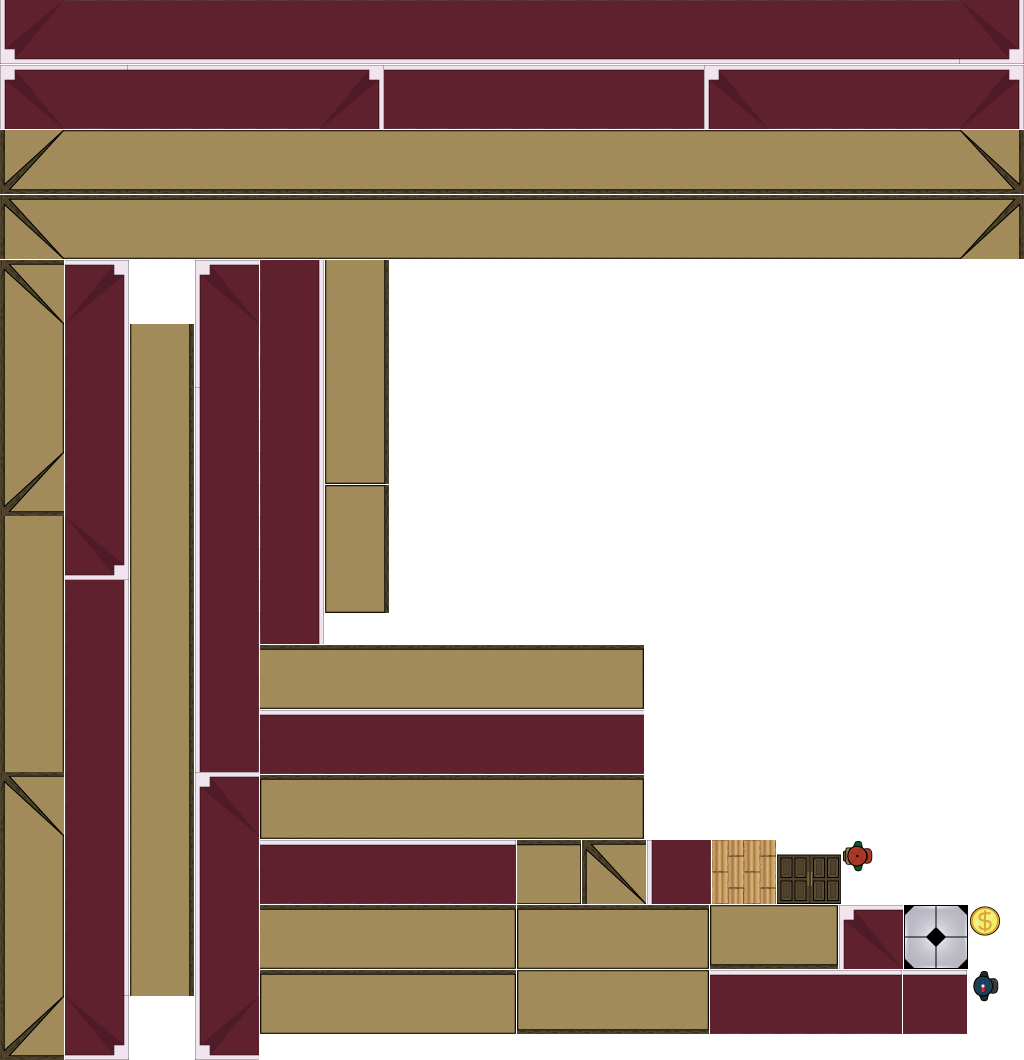
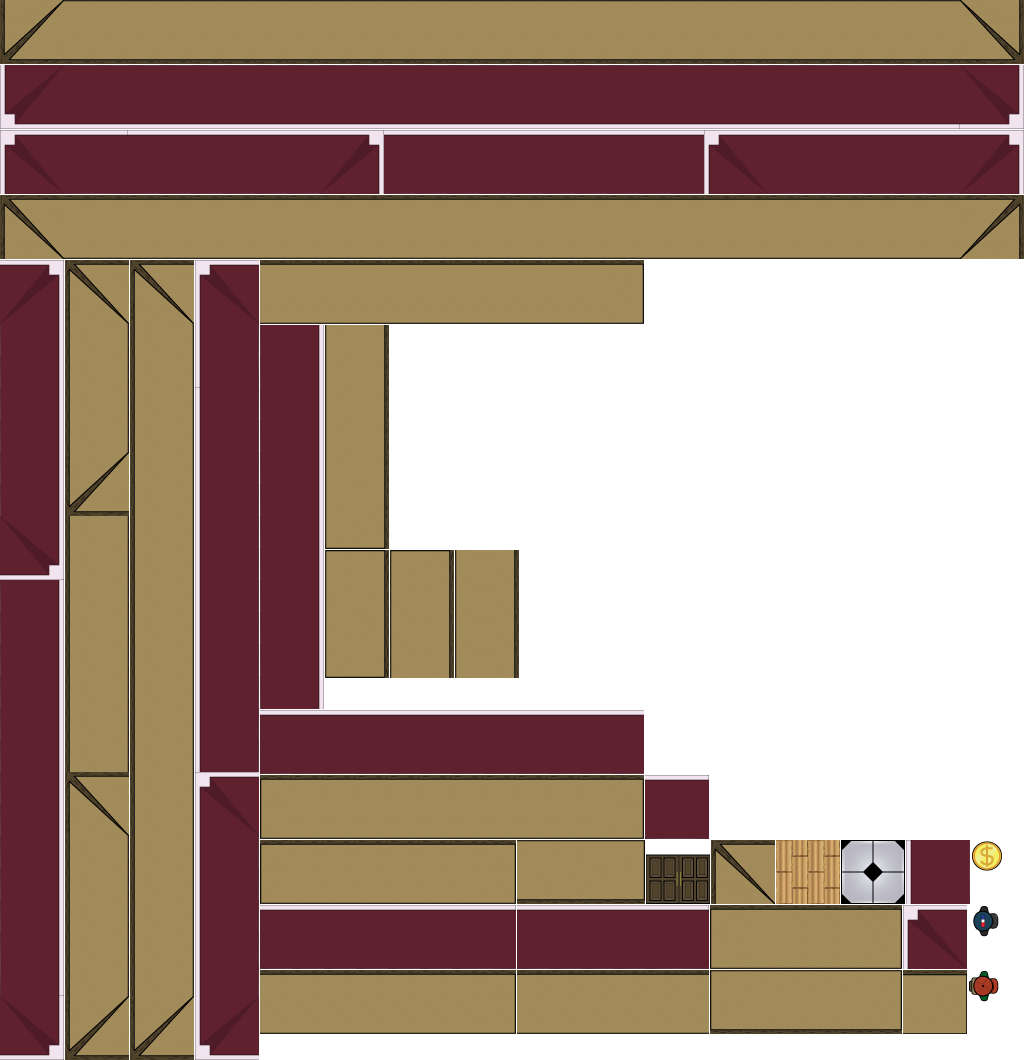
last level arranged

diff --git a/js/Bank.js b/js/Bank.js
@@ -14,7 +14,7 @@ Bank.prototype={
         game.load.image('coin', 'assets/img/pngformat/coin.png');
         game.load.atlas('wallAtlas', 'assets/img/wallatlas.png', 'assets/img/wallatlas.json');
         game.load.atlas('atlas', 'assets/img/atlas.png', 'assets/img/atlas.json');
-
+        game.load.atlas('masterAtlas', 'assets/img/MasterAtlas.png', 'assets/img/MasterAtlas.json');
         game.load.image('floor', 'assets/img/pngformat/floor.png');
 
     },
@@ -41,49 +41,79 @@ Bank.prototype={
         Swalls.enableBody = true;
 
         //*Evs Crap
-        // top left area
-        var leftMidWallPiece = Swalls.create(0, 400, 'wallAtlas','shortwall');   // left middle wall
-        leftMidWallPiece.body.immovable = true;
-        leftMidWallPiece.scale.setTo(.6,1);
-        var rightMidWallPiece = Swalls.create(200, 400, 'wallAtlas','shortwall');   // right mid wall
-        rightMidWallPiece.body.immovable = true;   
-        rightMidWallPiece.scale.setTo(1.5,1);
-        var LHallway = Swalls.create(300, 90, 'wallAtlas','sidewall');   // left hallway wall
-        LHallway.body.immovable = true;   
-        LHallway.scale.setTo(.9,.51);
-        var RHallway = Swalls.create(440, -60, 'wallAtlas','sidewall');   // right hallway wall
-        RHallway.body.immovable = true;   
-        RHallway.scale.setTo(.8,.5);
+        // borders
+        var top = Swalls.create(0, 0, 'masterAtlas','topwall');
+        top.body.immovable = true;
+        var bot = Swalls.create(0, game.height -64, 'masterAtlas','bottomwall');
+        bot.body.immovable = true;
+        var left = Swalls.create(0, 0, 'masterAtlas','blankside');
+        left.body.immovable = true;
+        var right = Swalls.create(game.width, 0, 'masterAtlas','blankside');
+        right.body.immovable = true;
+        right.scale.setTo(-1,1);
 
-        var rightWall = Swalls.create(180, 650, 'wallAtlas','sidewall');   // right wall in small room
-        rightWall.body.immovable = true;
-        rightWall.scale.setTo(.4,.3);
-        var botWall = Swalls.create(110, 650, 'wallAtlas','shortwall');   // top/bot wall in small room
-        botWall.body.immovable = true;
-        botWall.scale.setTo(.5,.5);
+        //corners
+        topmid = Swalls.create(512,0, 'masterAtlas', '1corner');
+        topmid.body.immovable = true;
+        topmid.scale.setTo(-1,1);
+        leftmid = Swalls.create(0,416, 'masterAtlas', '1corner');
+        leftmid.body.immovable = true;
+        leftmid.scale.setTo(1,-1);
+        botleft = Swalls.create(292,game.height, 'masterAtlas', '1corner');
+        botleft.body.immovable = true;
+        botleft.scale.setTo(-1,-1);
 
-        // top right room quadrant
-        var leftwall = Swalls.create(710, 100, 'wallAtlas','sidewall');   // left wall
-        leftwall.body.immovable = true;   
-        leftwall.scale.setTo(.8,.30);
-        var Botwall = Swalls.create(710, 300, 'wallAtlas','shortwall');   // bottom wall
-        Botwall.body.immovable = true;   
-        Botwall.scale.setTo(1.1,1);
-        var block = Swalls.create(815, 170, 'wallAtlas','shortwall');   // block wall
-        block.body.immovable = true;   
-        block.scale.setTo(.45,1.2);
+        rightbot = Swalls.create(game.width,544, 'masterAtlas', '1corner');
+        rightbot.body.immovable = true;
+        rightbot.scale.setTo(-1,1);
 
-        // bottom right room quadrant
-        var Topwall= Swalls.create(710, 530, 'wallAtlas','shortwall');   // top wall
-        Topwall.body.immovable = true;   
-        Topwall.scale.setTo(1.7,1);
-        var topPiece = Swalls.create(710, 550, 'wallAtlas','sidewall');   // left top piece wall
-        topPiece.body.immovable = true;   
-        topPiece.scale.setTo(.3,.13);
-        var botPiece = Swalls.create(710, 710, 'wallAtlas','sidewall');   // left bot piece wall
-        botPiece.body.immovable = true;   
-        botPiece.scale.setTo(.3,.13);
-        
+
+        //top right
+        cornerright = Swalls.create(game.width-320,352, 'masterAtlas', '1corner');
+        cornerright.scale.setTo(1,-1);
+        cornerright.body.immovable = true;
+        smallboi4 = Swalls.create(game.width-256,160, 'masterAtlas', 'endcapmini');
+        smallboi4.scale.setTo(-1,1);
+        smallboi4.body.immovable = true;
+        smallboi3 = Swalls.create(game.width-256,288, 'masterAtlas', 'minismall');
+        smallboi3.body.immovable = true;
+        doorpiece =  Swalls.create(game.width-196,160, 'masterAtlas', 'singlewall');
+        doorpiece.body.immovable = true;
+        //top left
+        cornertop = Swalls.create(384,416, 'masterAtlas', '1corner');
+        cornertop.scale.setTo(-1,-1);
+        cornertop.body.immovable = true;
+        smallboi1 = Swalls.create(64,352, 'masterAtlas', 'minismall');
+        smallboi1.body.immovable = true;
+        smallboi2 = Swalls.create(384,352, 'masterAtlas', 'minismall');
+        smallboi2.body.immovable = true;
+        vert1 = Swalls.create(320,352, 'masterAtlas', 'verttopleft');
+        vert1.scale.setTo(1,-1);
+        vert1.body.immovable = true;
+        topsmall = Swalls.create(320,416, 'masterAtlas', 'singlewall');
+        topsmall.scale.setTo(-1,-1);
+        topsmall.body.immovable = true;
+        vert2 = Swalls.create(448,64, 'masterAtlas', 'verttopleft');
+        vert2.body.immovable = true;
+        //bottom left
+        singlebot = Swalls.create(228,game.height-256, 'masterAtlas', 'singlewall');
+        singlebot.scale.setTo(-1,1);
+        singlebot.body.immovable = true;
+        cornerbot = Swalls.create(292,game.height-256, 'masterAtlas', '1corner');
+        cornerbot.scale.setTo(-1,1);
+        cornerbot.body.immovable = true;
+        mini = Swalls.create(228,game.height-192, 'masterAtlas', 'mini');
+        mini.body.immovable = true;
+        //bottom right
+        cornerright = Swalls.create(game.width-320,544, 'masterAtlas', '1corner'); 
+        cornerright.body.immovable = true;
+        lastboi = Swalls.create(game.width-256,544, 'masterAtlas', 'lastboi'); 
+        lastboi.body.immovable = true;
+        singular = Swalls.create(game.width-320,608, 'masterAtlas', 'singlewall');
+        singular.body.immovable = true; 
+
+
+
 
 
         //adding moveable walls
